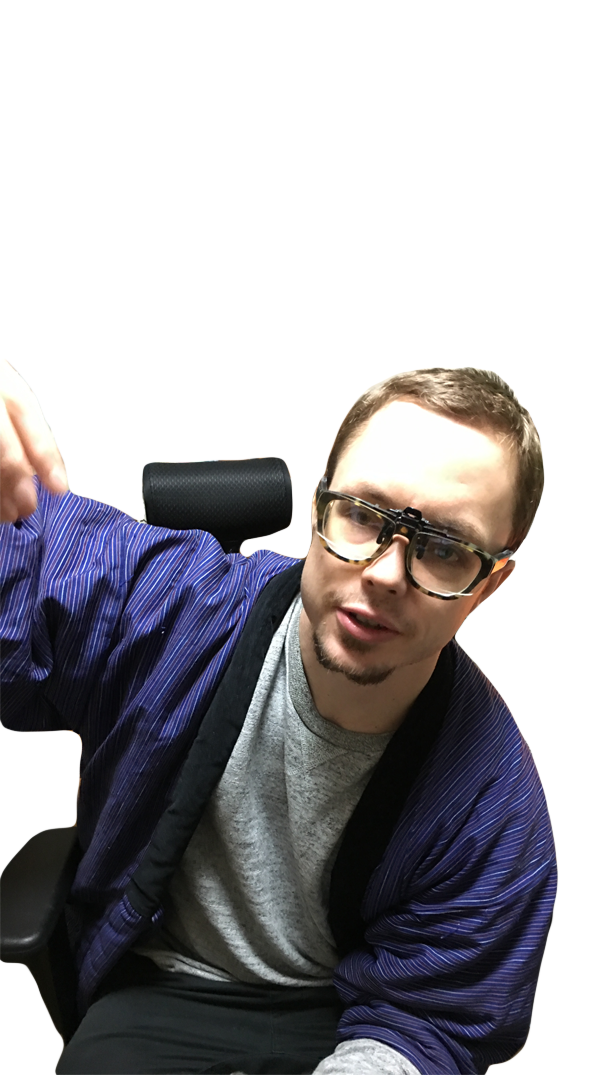
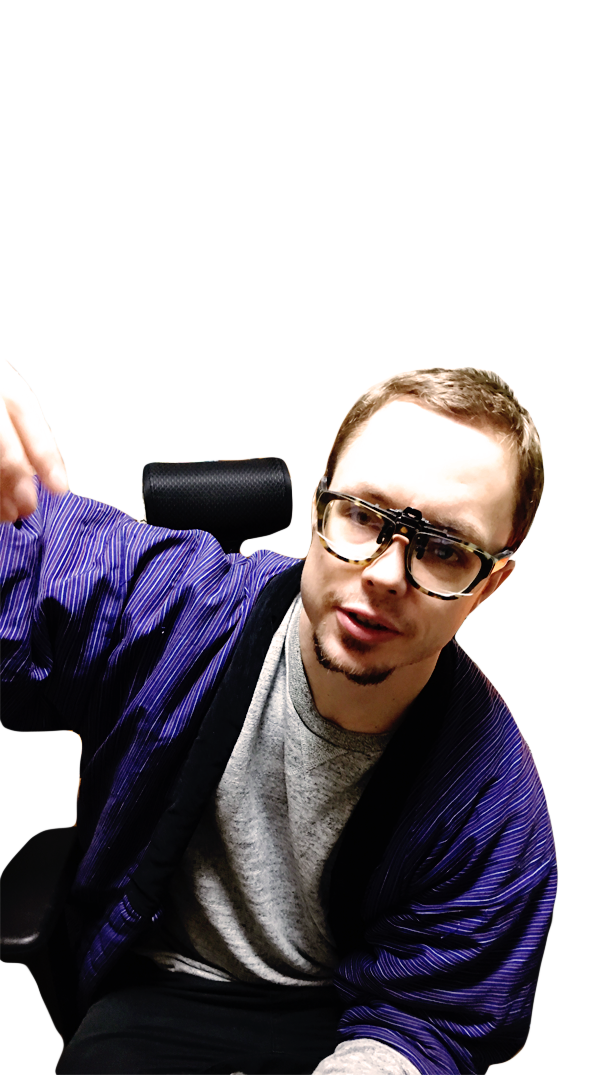
added new images

diff --git a/src/pages/about/index.js b/src/pages/about/index.js
@@ -131,7 +131,7 @@ class AboutPage extends React.Component {
           <AnimatedText
             automated={false}
             messages={
-              [`Hello again, that's me below...`,
+              [`Oh hello again, that's me below...`,
                 `My wife took this picture while I was telling her about the new rasberry pi I bought.`,
                 `I'm curious and creative, so I like to tinker around with things.`,
                 `The drive to take things apart and put them back together again eventually lead me to be programmer.`,

diff --git a/src/pages/about/index.scss b/src/pages/about/index.scss
@@ -118,6 +118,7 @@
       position: absolute;
       width: auto;
       height: auto;
+      bottom: 0;
     }
 
     &-bg {
